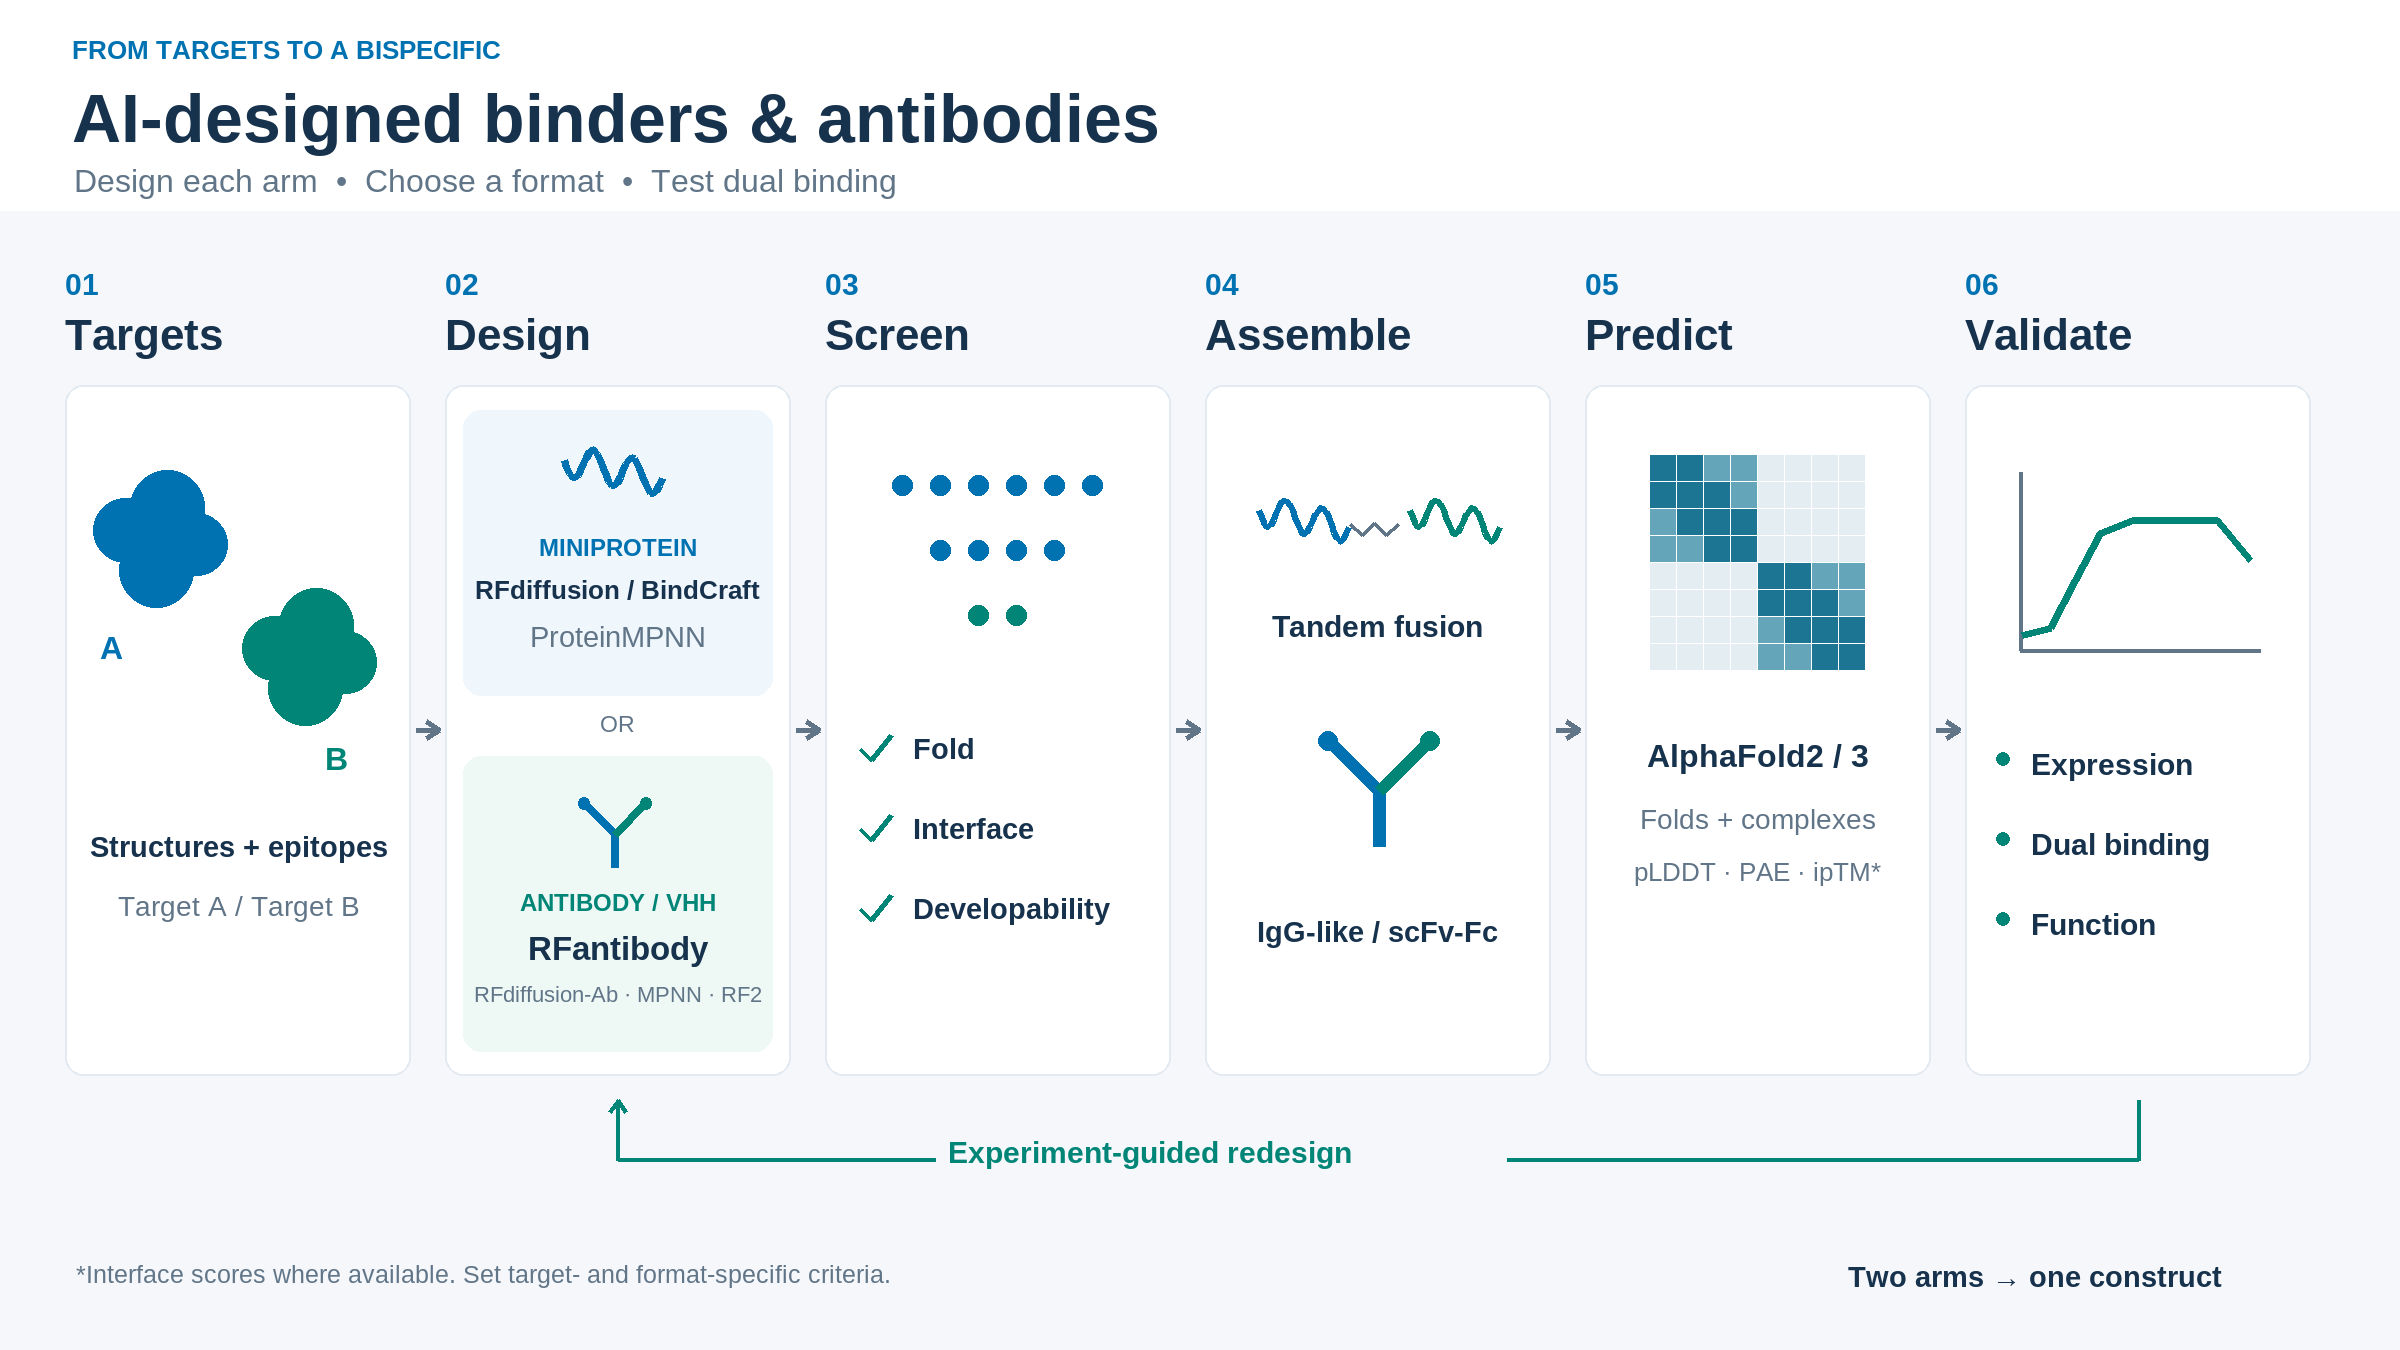
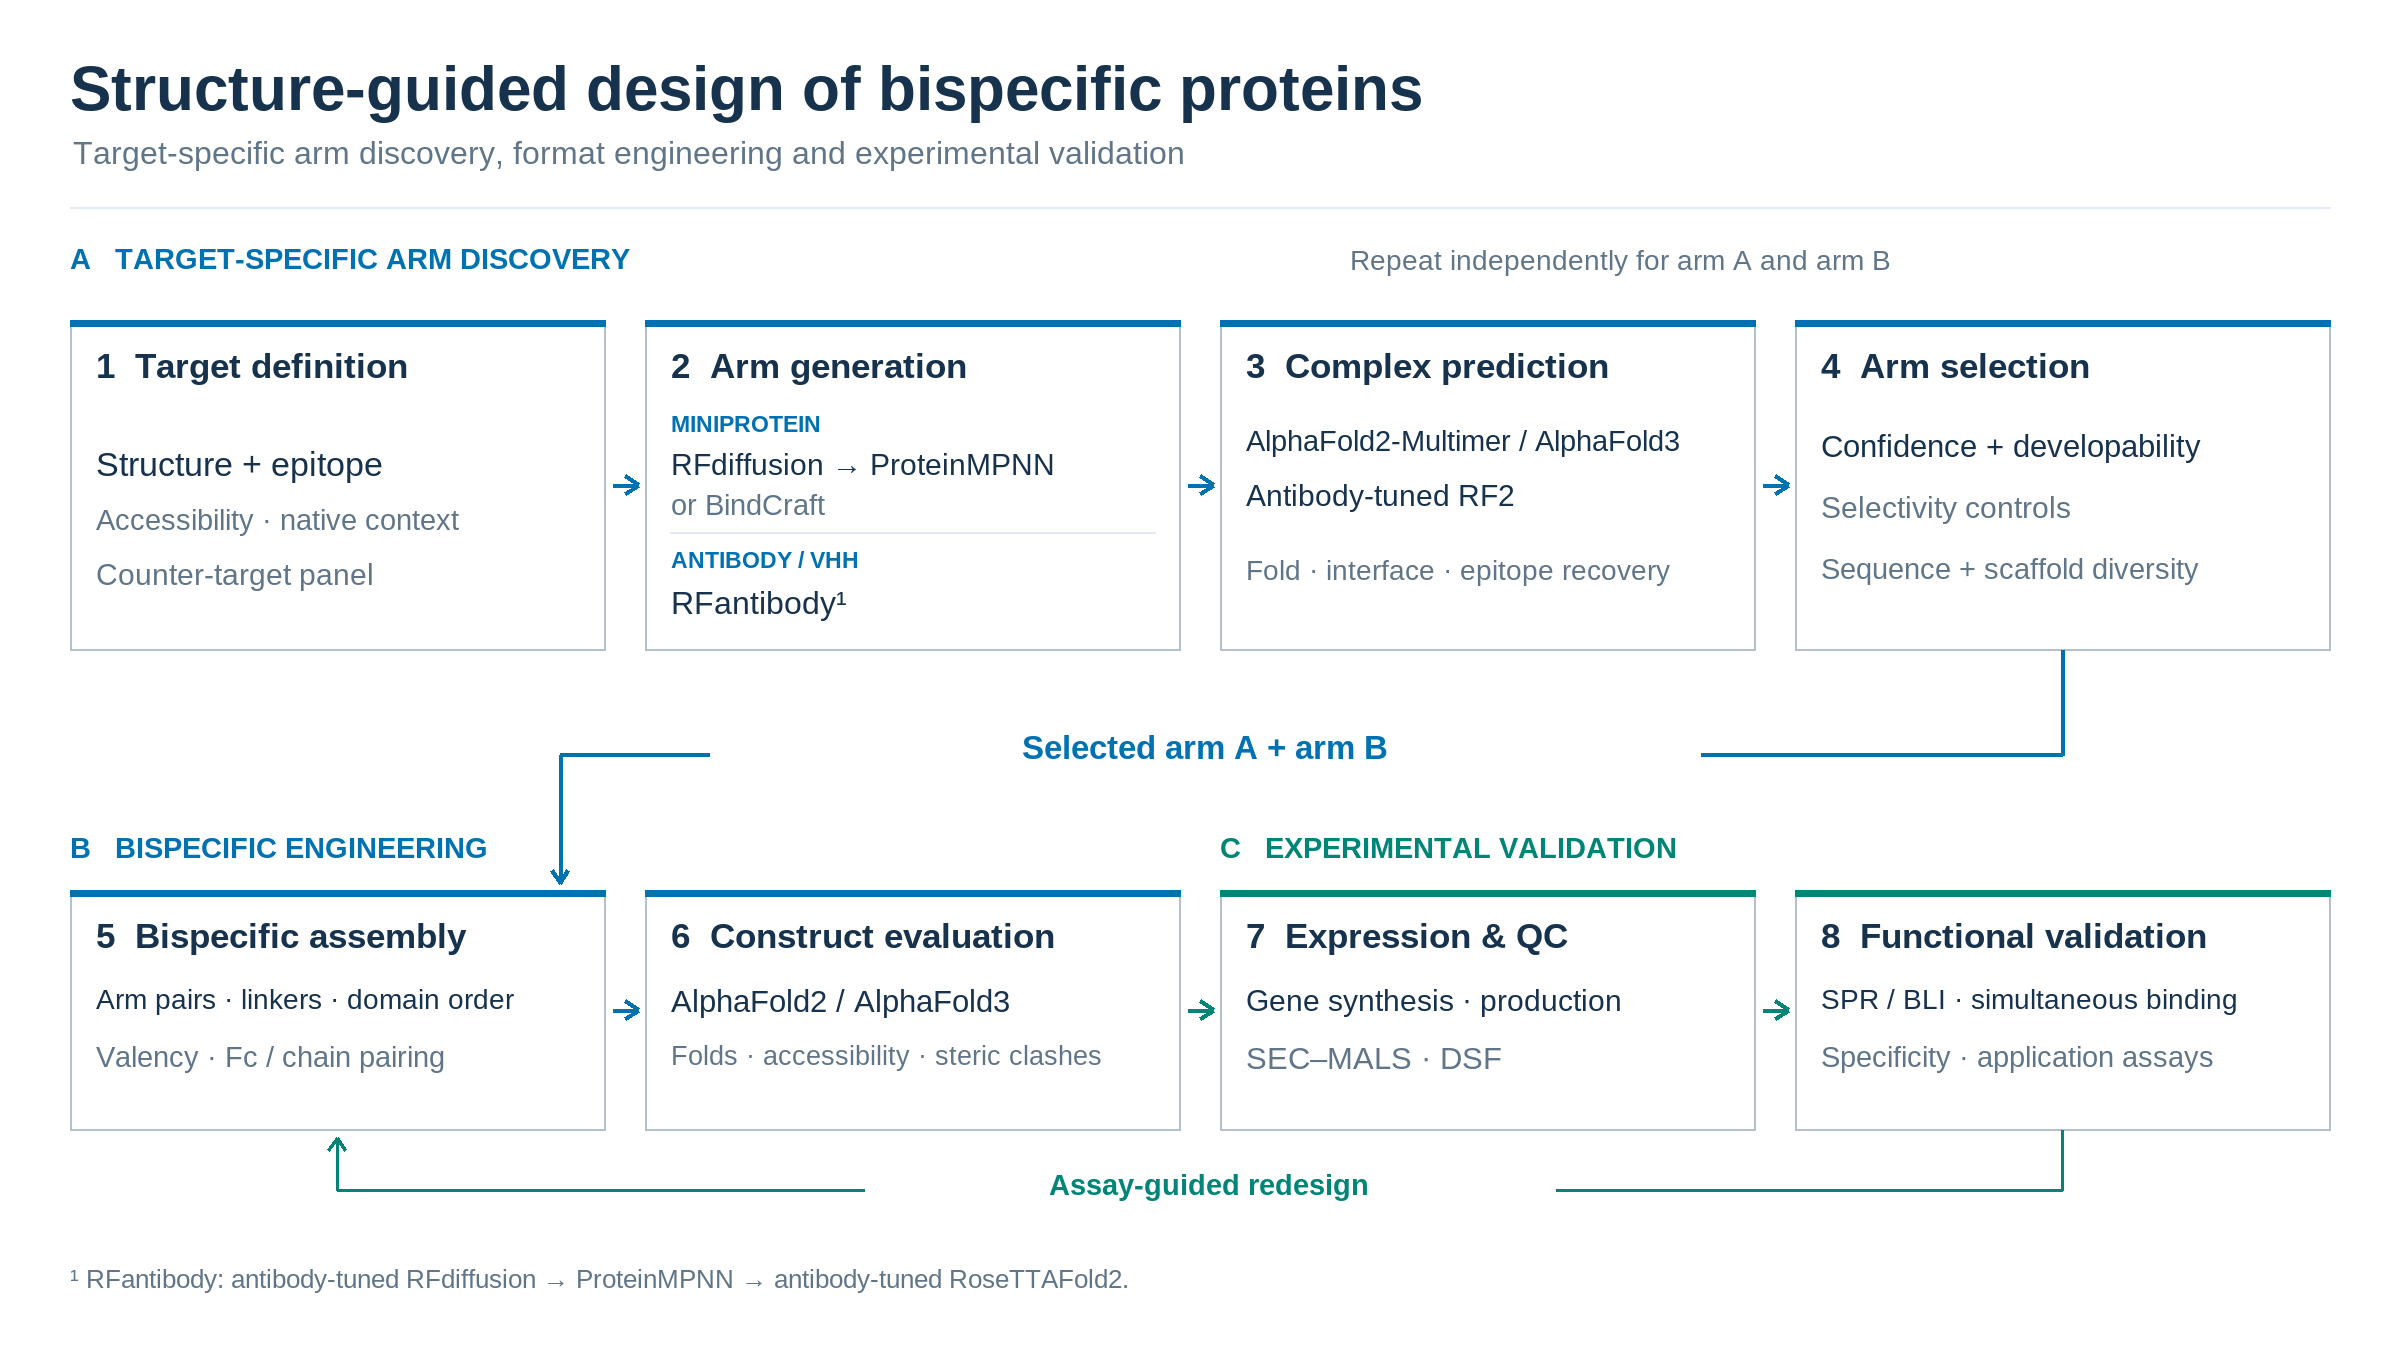
Redesign bispecific workflow as a minimal scientific process figure

diff --git a/alzheimer/bindcraft/fusion/pic_graphs/build_visual_workflow_slide.py b/alzheimer/bindcraft/fusion/pic_graphs/build_visual_workflow_slide.py
@@ -50,69 +50,69 @@ def antibody(cx,cy,scale=1):
  path([(cx,cy+65*scale),(cx,cy),(cx-60*scale,cy-60*scale)],BLUE,int(16*scale))
  path([(cx,cy),(cx+60*scale,cy-60*scale)],TEAL,int(16*scale))
  for dx,c in [(-60,BLUE),(60,TEAL)]:shape(cx+dx*scale-11*scale,cy-70*scale,22*scale,22*scale,c,'ellipse')
-shape(0,0,W,H,BG,'rect');shape(0,0,W,210,WHITE,'rect')
-text(72,35,'FROM TARGETS TO A BISPECIFIC',26,BLUE,1)
-text(72,80,'AI-designed binders & antibodies',68,NAVY,1)
-text(74,163,'Design each arm  •  Choose a format  •  Test dual binding',32,MUTED)
-xs=[65+380*i for i in range(6)];titles=['Targets','Design','Screen','Assemble','Predict','Validate']
-for i,(x,title) in enumerate(zip(xs,titles)):
- text(x,267,f'0{i+1}',30,BLUE,1)
- text(x,310,title,44,NAVY,1)
- shape(x,385,345,690,WHITE,stroke=LIGHT)
- if i<5:arrow(x+351,730,x+374,730)
-# Targets.
-x=xs[0];blob(x+97,540,BLUE);blob(x+246,658,TEAL)
-text(x+35,630,'A',32,BLUE,1);text(x+260,741,'B',32,TEAL,1)
-text(x+24,830,'Structures + epitopes',30,NAVY,1,w=300,align='center')
-text(x+24,890,'Target A / Target B',28,MUTED,w=300,align='center')
-# Design alternatives.
-x=xs[1]
-shape(x+18,410,309,285,'EFF6FC')
-ribbon(x+168,460,BLUE,.7)
-text(x+28,534,'MINIPROTEIN',24,BLUE,1,w=289,align='center')
-text(x+28,575,'RFdiffusion / BindCraft',28,NAVY,1,w=289,align='center')
-text(x+28,620,'ProteinMPNN',29,MUTED,w=289,align='center')
-text(x+28,711,'OR',23,MUTED,w=289,align='center')
-shape(x+18,756,309,295,'EEF8F5')
-antibody(x+170,834,.52)
-text(x+28,889,'ANTIBODY / VHH',24,TEAL,1,w=289,align='center')
-text(x+28,930,'RFantibody',33,NAVY,1,w=289,align='center')
-text(x+28,982,'RFdiffusion-Ab · MPNN · RF2',23,MUTED,w=289,align='center')
-# Screening funnel: progressively fewer candidate dots.
-x=xs[2]
-for row,count in enumerate([6,4,2]):
- for j in range(count):shape(x+172-(count-1)*19+j*38-10,475+row*65,20,20,BLUE if row<2 else TEAL,'ellipse')
-for y,s in [(735,'Fold'),(815,'Interface'),(895,'Developability')]:
- path([(x+35,y+14),(x+46,y+25),(x+66,y)],TEAL,5);text(x+88,y-3,s,29,NAVY,1)
-# Assembly: tandem and antibody formats.
-x=xs[3]
-ribbon(x+99,510,BLUE,.65);ribbon(x+250,510,TEAL,.65)
-path([(x+145,524),(x+157,535),(x+169,523),(x+181,535),(x+193,524)],MUTED,4)
-text(x+18,609,'Tandem fusion',30,NAVY,1,w=309,align='center')
-antibody(x+174,791,.85)
-text(x+18,915,'IgG-like / scFv-Fc',29,NAVY,1,w=309,align='center')
-# Prediction: a small PAE-style matrix, editable cells.
-x=xs[4]
-for a in range(8):
- for b in range(8):
-  same=(a<4)==(b<4);col=('1B7593' if abs(a-b)<2 else '64A5B9') if same else 'E4EEF2'
-  shape(x+65+a*27,455+b*27,25,25,col,'rect')
-text(x+15,738,'AlphaFold2 / 3',32,NAVY,1,w=315,align='center')
-text(x+15,803,'Folds + complexes',28,MUTED,w=315,align='center')
-text(x+15,857,'pLDDT · PAE · ipTM*',26,MUTED,w=315,align='center')
-# Experimental validation: response curve and two target badges.
-x=xs[5]
-path([(x+55,472),(x+55,650),(x+295,650)],MUTED,4)
-path([(x+57,635),(x+85,628),(x+110,580),(x+135,533),(x+168,520),(x+252,520),(x+285,560)],TEAL,7)
-for y,s in [(747,'Expression'),(827,'Dual binding'),(907,'Function')]:
- shape(x+31,y+5,13,13,TEAL,'ellipse');text(x+66,y,s,30,NAVY,1)
-# Iteration below cards.
-path([(xs[5]+173,1100),(xs[5]+173,1160),(xs[1]+173,1160)],TEAL,4)
-arrow(xs[1]+173,1160,xs[1]+173,1100,TEAL,4)
-shape(936,1130,570,57,BG,'rect');text(948,1135,'Experiment-guided redesign',30,TEAL,1)
-text(76,1260,'*Interface scores where available. Set target- and format-specific criteria.',25,MUTED)
-text(1740,1260,'Two arms → one construct',29,NAVY,1,w=590,align='center')
-out=P/'08_06_general_bispecific_design_workflow.png';im.save(out,dpi=(180,180))
+# Publication-style diagram: native vector boxes and connectors; no illustrative data.
+# Scientific text is intentionally short; implementation notes remain in README.
+shape(0,0,W,H,WHITE,'rect')
+text(70,53,'Structure-guided design of bispecific proteins',62,NAVY,1)
+text(73,135,'Target-specific arm discovery, format engineering and experimental validation',32,MUTED)
+path([(70,207),(2330,207)],LIGHT,2)
+text(70,242,'A   TARGET-SPECIFIC ARM DISCOVERY',29,BLUE,1)
+text(1350,244,'Repeat independently for arm A and arm B',28,MUTED)
+xs=[70,645,1220,1795];cw=535
+# Flat, consistently sized scientific process nodes.
+def node(x,y,title,lines,h=330,color=BLUE):
+ shape(x,y,cw,h,WHITE,'rect',stroke='B4C1CD')
+ shape(x,y,cw,6,color,'rect')
+ text(x+26,y+26,title,35,NAVY,1,w=cw-50)
+ for yy,s,n,c,bold in lines:
+  text(x+26,y+yy,s,n,c,bold,w=cw-50)
+node(xs[0],320,'1  Target definition',[
+ (125,'Structure + epitope',34,NAVY,0),
+ (183,'Accessibility · native context',29,MUTED,0),
+ (237,'Counter-target panel',30,MUTED,0)])
+node(xs[1],320,'2  Arm generation',[
+ (91,'MINIPROTEIN',23,BLUE,1),
+ (127,'RFdiffusion → ProteinMPNN',30,NAVY,0),
+ (168,'or BindCraft',29,MUTED,0),
+ (227,'ANTIBODY / VHH',23,BLUE,1),
+ (265,'RFantibody¹',32,NAVY,0)])
+path([(xs[1]+25,532),(xs[1]+cw-25,532)],LIGHT,2)
+node(xs[2],320,'3  Complex prediction',[
+ (104,'AlphaFold2-Multimer / AlphaFold3',29,NAVY,0),
+ (158,'Antibody-tuned RF2',30,NAVY,0),
+ (234,'Fold · interface · epitope recovery',28,MUTED,0)])
+node(xs[3],320,'4  Arm selection',[
+ (108,'Confidence + developability',31,NAVY,0),
+ (170,'Selectivity controls',30,MUTED,0),
+ (232,'Sequence + scaffold diversity',29,MUTED,0)])
+for x in xs[:-1]:arrow(x+cw+8,485,x+cw+33,485,BLUE,4)
+# A single row-to-row connector carries selected arms into construct engineering.
+path([(2062,650),(2062,755),(560,755)],BLUE,4)
+arrow(560,755,560,883,BLUE,4)
+shape(710,723,990,63,WHITE,'rect')
+text(735,729,'Selected arm A + arm B',33,BLUE,1,w=940,align='center')
+text(70,831,'B   BISPECIFIC ENGINEERING',29,BLUE,1)
+text(1220,831,'C   EXPERIMENTAL VALIDATION',29,TEAL,1)
+node(xs[0],890,'5  Bispecific assembly',[
+ (93,'Arm pairs · linkers · domain order',28,NAVY,0),
+ (150,'Valency · Fc / chain pairing',29,MUTED,0)],h=240)
+node(xs[1],890,'6  Construct evaluation',[
+ (93,'AlphaFold2 / AlphaFold3',31,NAVY,0),
+ (150,'Folds · accessibility · steric clashes',27,MUTED,0)],h=240)
+node(xs[2],890,'7  Expression & QC',[
+ (93,'Gene synthesis · production',30,NAVY,0),
+ (150,'SEC–MALS · DSF',31,MUTED,0)],h=240,color=TEAL)
+node(xs[3],890,'8  Functional validation',[
+ (93,'SPR / BLI · simultaneous binding',28,NAVY,0),
+ (150,'Specificity · application assays',29,MUTED,0)],h=240,color=TEAL)
+for i,x in enumerate(xs[:-1]):arrow(x+cw+8,1010,x+cw+33,1010,BLUE if i==0 else TEAL,4)
+# Iteration is an experimental feedback path, not a claim of completed validation.
+path([(2062,1130),(2062,1190),(337,1190)],TEAL,3)
+arrow(337,1190,337,1138,TEAL,3)
+shape(865,1164,690,56,WHITE,'rect')
+text(884,1168,'Assay-guided redesign',29,TEAL,1,w=650,align='center')
+text(70,1264,'¹ RFantibody: antibody-tuned RFdiffusion → ProteinMPNN → antibody-tuned RoseTTAFold2.',26,MUTED)
+out=P/'08_06_general_bispecific_design_workflow.png';im.save(out,dpi=(300,300))
 # Use existing clean master/layout package; all visible elements above are native shapes.
 with zipfile.ZipFile(P/'08_03_alzheimer_bispecific_interview_slide.pptx') as z:
  files={n:z.read(n) for n in z.namelist() if not n.startswith('ppt/media/')}

diff --git a/alzheimer/bindcraft/fusion/pic_graphs/README.md b/alzheimer/bindcraft/fusion/pic_graphs/README.md
@@ -102,7 +102,7 @@ Editable-slide milestone, 2026-10-20: added native editable PowerPoint and its r
 
 ## General bispecific binder / antibody workflow
 
-`08_06_general_bispecific_design_workflow.png` is a single 2400 × 1350 (16:9) presentation PNG adapted from the structure of `Chart1_DeNovo_Binder_Design.png` and `Chart2_Screening_and_Fusion.png`. It generalizes the two charts into six visual stages: Targets → Design → Screen → Assemble → Predict → Validate. Two alternative design routes, miniprotein and antibody/VHH, are shown with short model labels. Protein/antibody icons, a schematic confidence matrix and an experiment-guided redesign arrow replace the previous explanatory paragraphs. Both original charts are preserved unchanged.
+`08_06_general_bispecific_design_workflow.png` is a single 2400 × 1350 (16:9) presentation PNG adapted from the structure of `Chart1_DeNovo_Binder_Design.png` and `Chart2_Screening_and_Fusion.png`. The current publication-style figure uses three labeled sections: A, target-specific arm discovery; B, bispecific engineering; and C, experimental validation. Eight numbered process nodes distinguish target definition, arm generation, complex prediction, arm selection, assembly, construct evaluation, expression/QC and functional validation. Alternative miniprotein and antibody/VHH models are named concisely. Uniform thin outlines, a white background, blue computational connectors and green experimental connectors replace the earlier icons and decorative panels. Both original charts are preserved unchanged.
 
 Two alternative modality routes are distinguished: RFdiffusion + ProteinMPNN (or BindCraft) for miniprotein binders, and RFantibody for framework-based antibody/nanobody design. RFantibody specifically combines antibody-finetuned RFdiffusion, ProteinMPNN and antibody-finetuned RoseTTAFold2. Antibody-format engineering and heavy/light-chain pairing remain separate steps from arm design. Model names are examples of available methods, not claims that every model is installed here or applicable to every target.
 
@@ -116,6 +116,8 @@ Primary model references, checked 2026-10-20:
 4. [RFantibody](https://github.com/RosettaCommons/RFantibody): antibody-specific backbone generation, sequence design and RoseTTAFold2-based prediction/filtering.
 5. [AlphaFold3](https://github.com/google-deepmind/alphafold3): biomolecular structure and complex prediction.
 
-The matching `08_06_general_bispecific_design_workflow_editable.pptx` contains native editable text, icons, arrows and shapes, with no flattened slide image. All graphics, including the illustrative confidence matrix and response curve, are conceptual rather than measured data. Regenerate both files with `python3 alzheimer/bindcraft/fusion/pic_graphs/build_visual_workflow_slide.py` (the earlier `build_general_workflow.py` command forwards to this builder). Rendering uses existing Pillow and Liberation Sans; no AI protein design/prediction jobs or software installations were performed. Verified PNG dimensions and visually inspected text, arrows, route merging and scientific wording. Status: complete; this is an explanatory workflow rather than an executed experiment.
+The matching `08_06_general_bispecific_design_workflow_editable.pptx` contains native editable text, icons, arrows and shapes, with no flattened slide image. The figure is a methodological schematic, with no illustrative confidence matrices, response curves or experimental results. PNG is 2400 × 1350 at 300 dpi; the PPTX uses native editable vector shapes, connectors and Arial text. Regenerate both files with `python3 alzheimer/bindcraft/fusion/pic_graphs/build_visual_workflow_slide.py` (the earlier `build_general_workflow.py` command forwards to this builder). Rendering uses existing Pillow and Liberation Sans; no AI protein design/prediction jobs or software installations were performed. Verified PNG dimensions and visually inspected text, arrows, route merging and scientific wording. Status: complete; this is an explanatory workflow rather than an executed experiment.
 
 Visual workflow revision, 2026-10-20: replaced the dense portrait PNG with a minimal widescreen slide and added its editable PowerPoint. Verified one slide, 16:9 dimensions, 40 native text labels, 168 native shapes, valid package/XML and no embedded slide image; visually inspected PNG spacing and labels. Native PowerPoint application rendering remains unverified on this host.
+
+Scientific figure revision, 2026-10-20: rebuilt the workflow as a restrained eight-node, three-section diagram; removed molecular cartoons and simulated data graphics. Checked model-route labeling and the distinction between prediction and experimental validation, inspected PNG layout, and validated PPTX XML and editable content. The current PPTX contains 39 text labels and 78 native shapes, with no flattened image. No new scientific inference or experimental work was performed.
